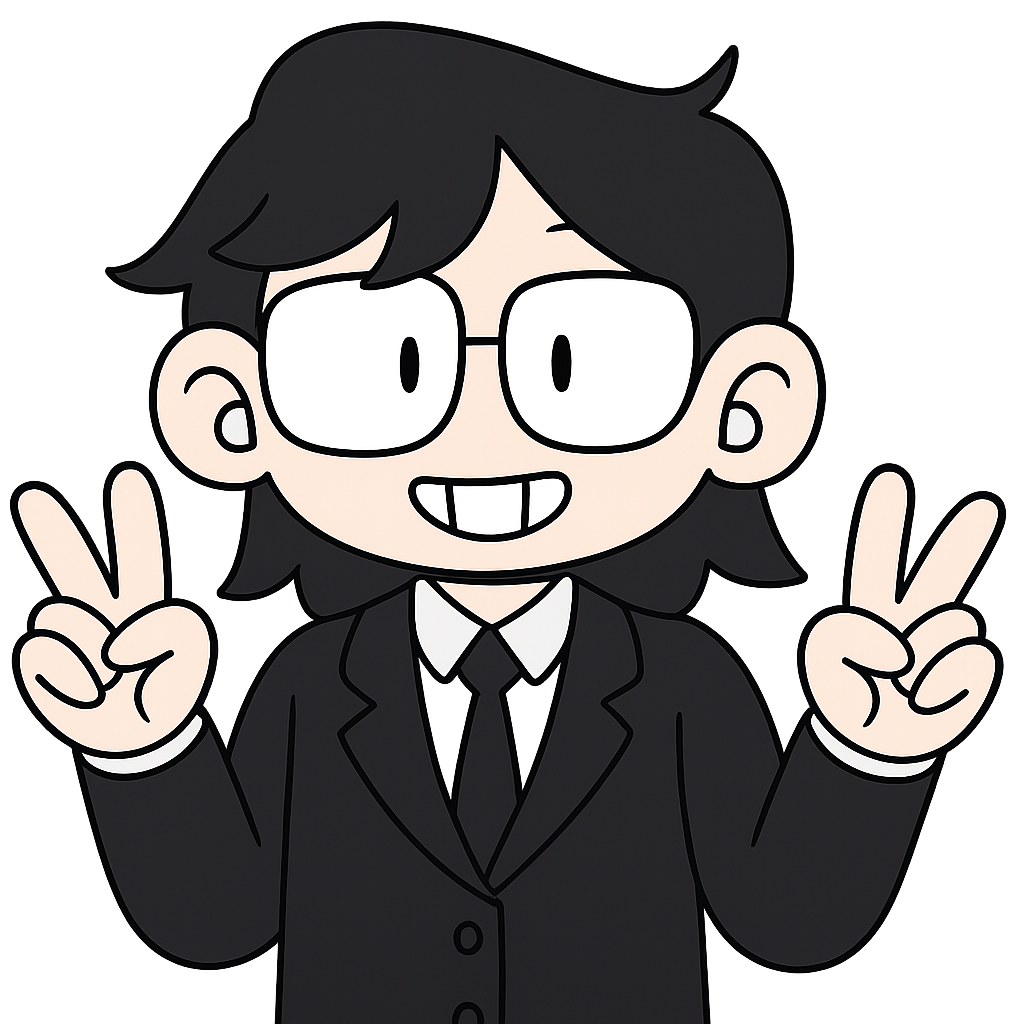
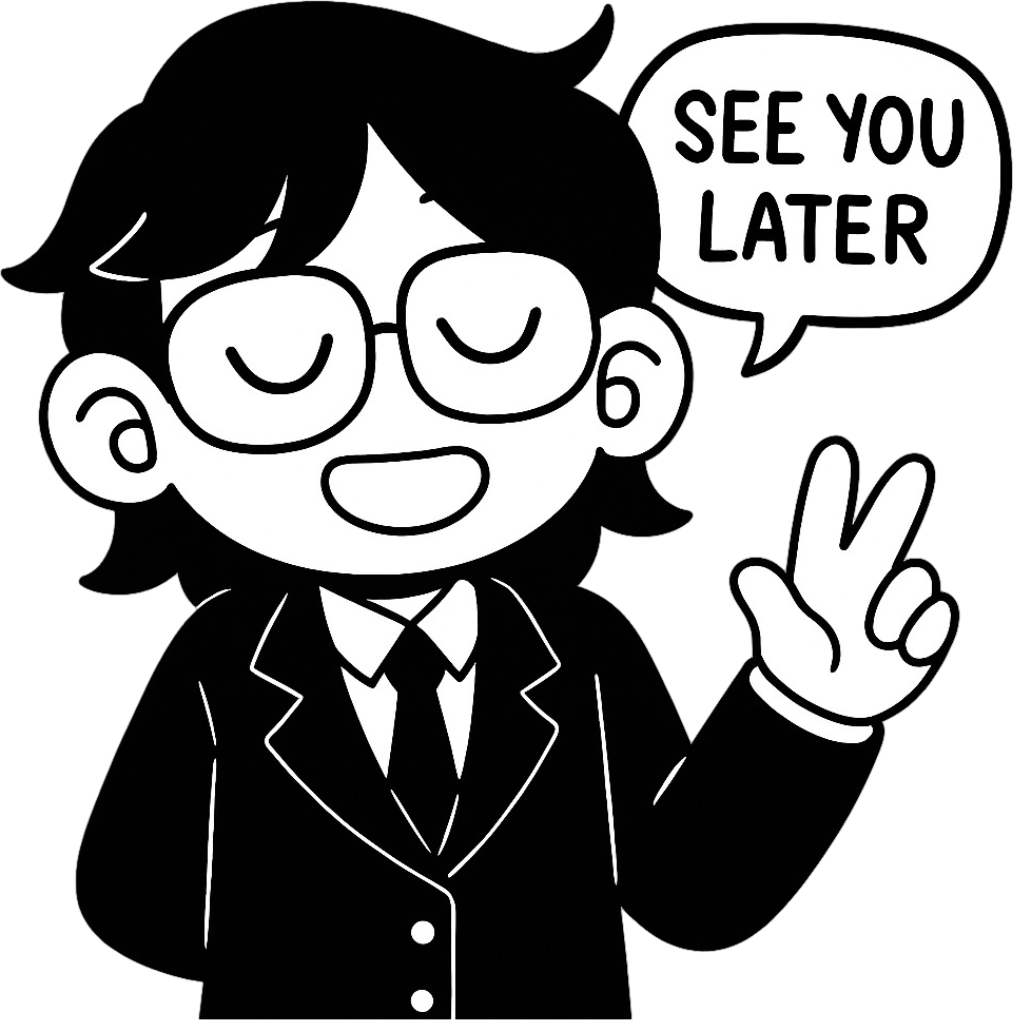
Contact me mejorado

diff --git a/portfolio-hoyos/src/app/modules/portfolio-web/components/web/web.component.scss b/portfolio-hoyos/src/app/modules/portfolio-web/components/web/web.component.scss
@@ -506,6 +506,7 @@
 /* Collage Section */
 .collage-section {
   padding: 20px 20px 40px;
+  margin-bottom: 60px;
   background-color: #ffffff;
   
   .collage-grid {
@@ -616,7 +617,7 @@
       .error-message {
         color: #ff4d4f;
         font-size: 0.85rem;
-        margin-top: 10px;
+        margin: 25px 0 10px;
         padding: 10px 15px;
         background-color: rgba(255, 77, 79, 0.1);
         border-radius: 4px;
@@ -631,7 +632,7 @@
       .success-message {
         color: #52c41a;
         font-size: 0.9rem;
-        margin-top: 15px;
+        margin: 40px 0 10px;
         padding: 10px 15px;
         background-color: rgba(82, 196, 26, 0.1);
         border-radius: 4px;
@@ -661,7 +662,7 @@
       cursor: pointer;
       transition: all 0.3s ease;
       width: 100%;
-      margin-top: 10px;
+      margin: 10px 0 30px 0;
       overflow: hidden;
       
       .spinner {
@@ -715,14 +716,8 @@
     img {
       max-width: 100%;
       height: auto;
-      border-radius: 12px;
-      box-shadow: 0 15px 35px rgba(0, 0, 0, 0.3);
-      transition: transform 0.5s ease, box-shadow 0.5s ease;
-      
-      &:hover {
-        transform: translateY(-5px);
-        box-shadow: 0 20px 40px rgba(0, 0, 0, 0.4);
-      }
+      border: none;
+      border-radius: 0;
     }
   }
   
@@ -749,11 +744,12 @@
 
 /* Footer Styles */
 .site-footer {
-  background-color: #29272a;
+  background-color: #1c1c1c;
   color: #ffffff;
-  padding: 30px 0 15px;
+  padding: 30px 0 0;
   font-family: 'Poppins', sans-serif;
-  margin-top: 40px;
+  margin-top: 0;
+  overflow: hidden;
 
   .footer-content {
     max-width: 1200px;
